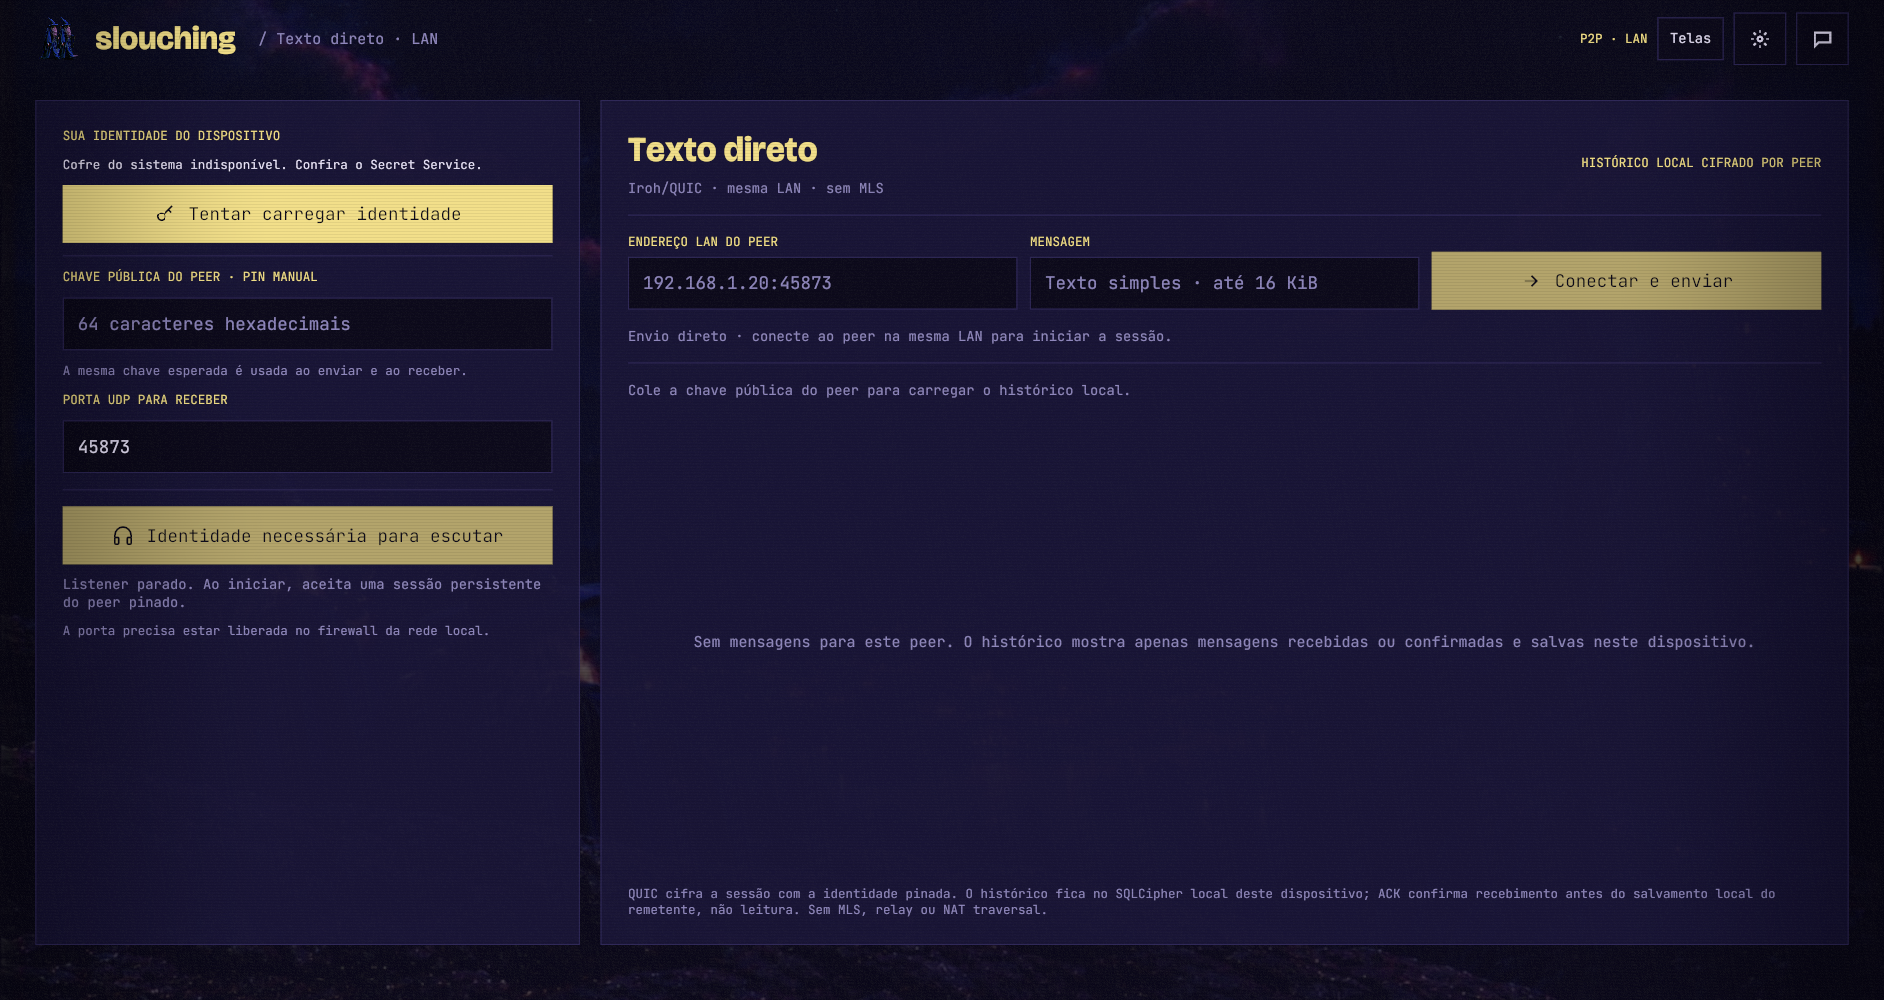
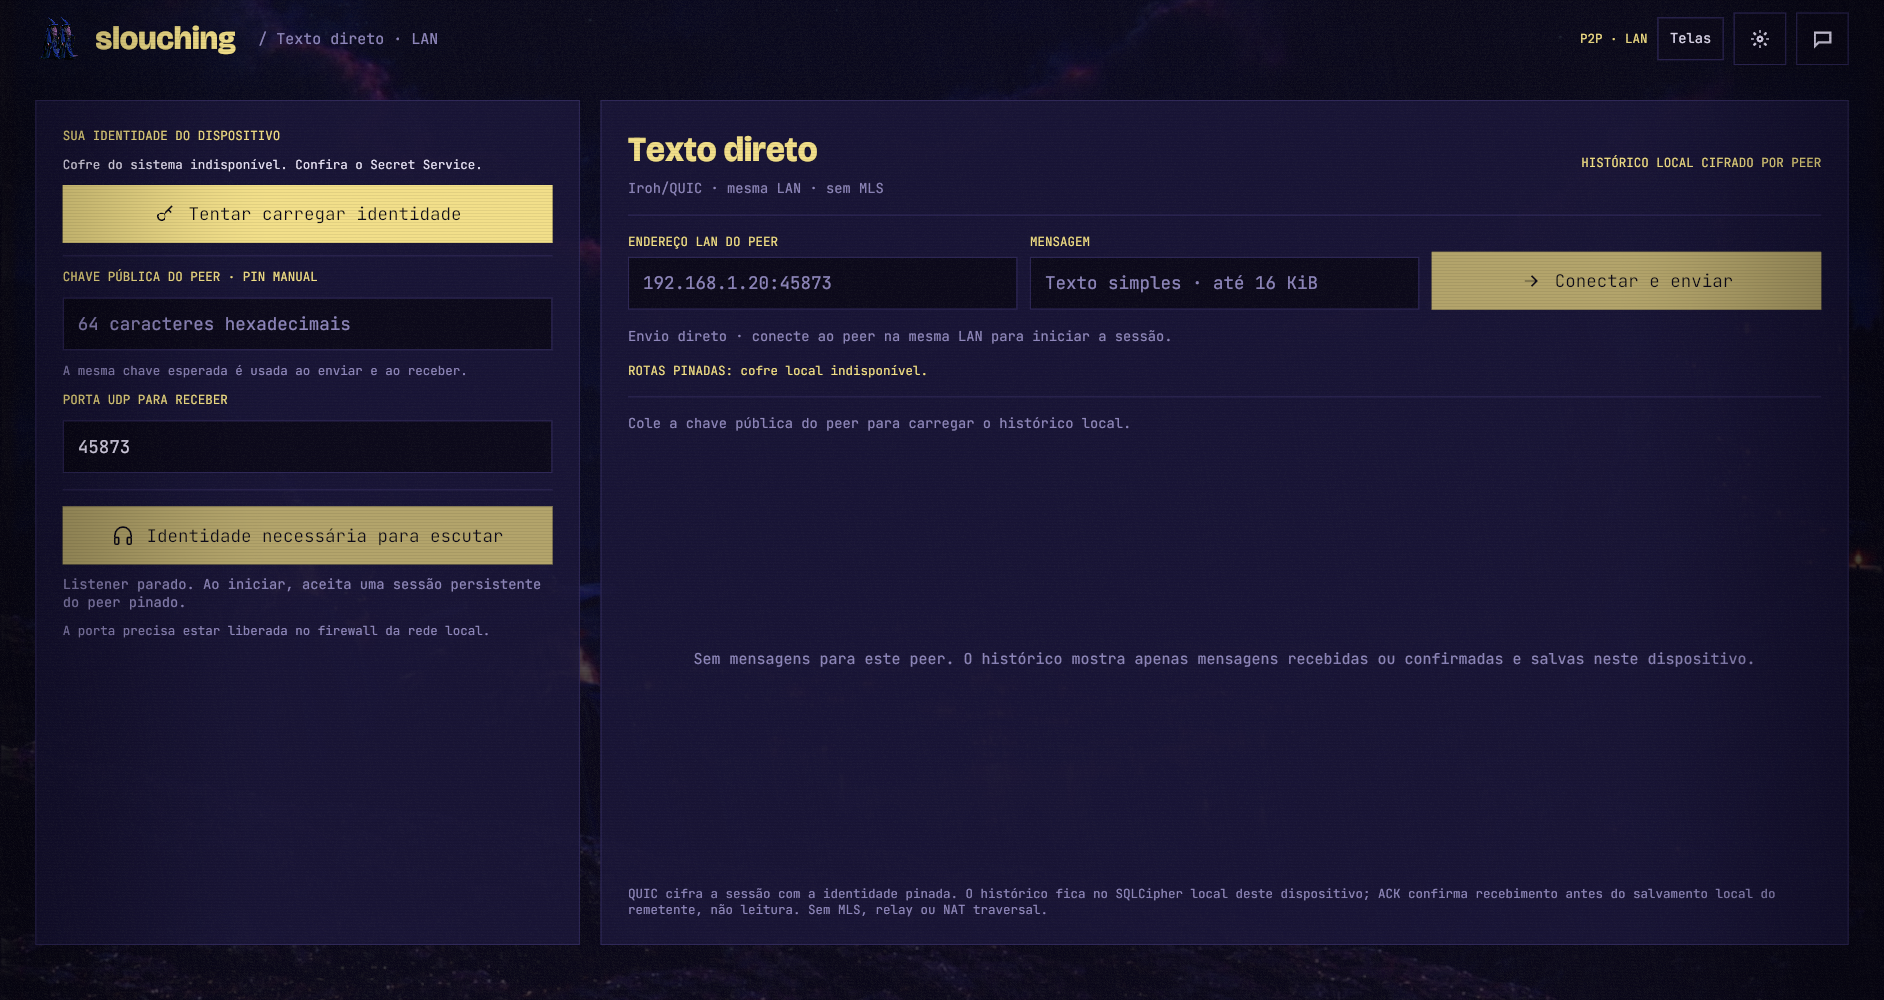
Persist pinned peer routes locally

Changed region(s): [[0.3694, 0.62, 0.9236, 0.682], [0.3386, 0.341, 0.5849, 0.434]]

diff --git a/src/storage.rs b/src/storage.rs
@@ -25,7 +25,7 @@ const KEY_NAME: &str = "local-profile-database-v1";
 const IDENTITY_KEY_NAME: &str = "device-signing-ed25519-v1";
 const PROFILE_DB: &str = "profile.sqlite3";
 const PROFILE_DB_KEY_LEN: usize = 32;
-const PROFILE_SCHEMA_VERSION: u32 = 12;
+const PROFILE_SCHEMA_VERSION: u32 = 13;
 const MAX_DIRECT_HISTORY_PER_PEER: i64 = 1000;
 const MAX_MLS_HISTORY_PER_GROUP: i64 = 1000;
 type StoredEventEnvelope = (
@@ -154,6 +154,12 @@ pub struct StoredDirectMessage {
 }
 
 #[derive(Debug, Clone, PartialEq, Eq)]
+pub struct StoredPeerRoute {
+    pub device_public_key: [u8; 32],
+    pub address: String,
+}
+
+#[derive(Debug, Clone, PartialEq, Eq)]
 pub struct StoredMlsMessage {
     pub sequence: i64,
     pub event_id: [u8; 16],
@@ -188,6 +194,26 @@ pub fn list_direct_messages(
     }
     let connection = open_local_database()?;
     list_direct_messages_in(&connection, peer_device, limit)
+}
+
+/// Stores a direct socket route only after the peer key has been pinned.
+pub fn save_peer_route(peer_device: [u8; 32], address: &str) -> Result<(), String> {
+    if peer_device.iter().all(|byte| *byte == 0) {
+        return Err("peer route requires a nonzero pinned device key".to_owned());
+    }
+    let address = address
+        .parse::<std::net::SocketAddr>()
+        .map_err(|_| "peer route must be an IP address and UDP port".to_owned())?;
+    if address.ip().is_unspecified() || address.port() == 0 {
+        return Err("peer route must use a reachable IP and nonzero port".to_owned());
+    }
+    let mut connection = open_local_database()?;
+    save_peer_route_in(&mut connection, peer_device, &address.to_string())
+}
+
+pub fn list_peer_routes() -> Result<Vec<StoredPeerRoute>, String> {
+    let connection = open_local_database()?;
+    list_peer_routes_in(&connection)
 }
 
 /// Removes only this peer's local direct-message history.
@@ -346,6 +372,45 @@ fn clear_direct_history_in(
         .commit()
         .map_err(|error| format!("could not commit direct history deletion: {error}"))?;
     Ok(deleted)
+}
+
+fn save_peer_route_in(
+    connection: &mut Connection,
+    peer_device: [u8; 32],
+    address: &str,
+) -> Result<(), String> {
+    connection
+        .execute(
+            "INSERT INTO local_peer_routes (device_public_key, socket_address)
+             VALUES (?1, ?2)
+             ON CONFLICT(device_public_key) DO UPDATE SET socket_address = excluded.socket_address",
+            params![peer_device.as_slice(), address],
+        )
+        .map_err(|error| format!("could not save pinned peer route: {error}"))?;
+    Ok(())
+}
+
+fn list_peer_routes_in(connection: &Connection) -> Result<Vec<StoredPeerRoute>, String> {
+    let mut statement = connection
+        .prepare(
+            "SELECT device_public_key, socket_address FROM local_peer_routes
+             ORDER BY socket_address, device_public_key",
+        )
+        .map_err(|error| format!("could not prepare pinned peer route query: {error}"))?;
+    let rows = statement
+        .query_map([], |row| {
+            Ok((row.get::<_, Vec<u8>>(0)?, row.get::<_, String>(1)?))
+        })
+        .map_err(|error| format!("could not query pinned peer routes: {error}"))?;
+    rows.map(|row| {
+        let (device_public_key, address) =
+            row.map_err(|error| format!("could not read pinned peer route: {error}"))?;
+        Ok(StoredPeerRoute {
+            device_public_key: fixed_bytes(device_public_key, "pinned peer route key")?,
+            address,
+        })
+    })
+    .collect()
 }
 
 fn list_direct_messages_in(
@@ -3699,6 +3764,19 @@ fn open_database(path: &Path, key: &[u8; PROFILE_DB_KEY_LEN]) -> Result<Connecti
             )
             .map_err(|error| format!("could not create encrypted MLS proposal journal: {error}"))?;
     }
+    if version < 13 {
+        transaction
+            .execute_batch(
+                "CREATE TABLE local_peer_routes (
+                     device_public_key BLOB PRIMARY KEY NOT NULL
+                         CHECK (length(device_public_key) = 32),
+                     socket_address TEXT NOT NULL
+                         CHECK (length(socket_address) BETWEEN 1 AND 128)
+                 );
+                 PRAGMA user_version = 13;",
+            )
+            .map_err(|error| format!("could not create encrypted peer route book: {error}"))?;
+    }
     transaction
         .commit()
         .map_err(|error| format!("could not finish local profile migration: {error}"))?;
@@ -3768,6 +3846,43 @@ mod tests {
             peer_identity.public().as_bytes(),
             device_identity.verifying_key().as_bytes()
         );
+    }
+
+    #[test]
+    fn pinned_peer_routes_persist_and_update_by_device_key() {
+        let unique = SystemTime::now()
+            .duration_since(UNIX_EPOCH)
+            .expect("system clock should be after the Unix epoch")
+            .as_nanos();
+        let directory = std::env::temp_dir().join(format!(
+            "slouching-peer-routes-{}-{unique}",
+            std::process::id()
+        ));
+        fs::create_dir_all(&directory).expect("temporary database directory should be created");
+        let path = directory.join("profile.sqlite3");
+        let key = [0x37; PROFILE_DB_KEY_LEN];
+        let peer = [0x61; 32];
+        let another_peer = [0x62; 32];
+        let mut connection =
+            open_database(&path, &key).expect("encrypted peer route database should initialize");
+
+        save_peer_route_in(&mut connection, peer, "192.168.1.20:45873")
+            .expect("first pinned peer route should persist");
+        save_peer_route_in(&mut connection, peer, "192.168.1.21:45873")
+            .expect("updated address should replace the prior route");
+        save_peer_route_in(&mut connection, another_peer, "[fd00::2]:45874")
+            .expect("IPv6 peer route should persist");
+
+        let routes = list_peer_routes_in(&connection).expect("pinned routes should reload");
+        assert_eq!(routes.len(), 2);
+        assert!(routes.iter().any(|route| {
+            route.device_public_key == peer && route.address == "192.168.1.21:45873"
+        }));
+        assert!(routes.iter().any(|route| {
+            route.device_public_key == another_peer && route.address == "[fd00::2]:45874"
+        }));
+        drop(connection);
+        fs::remove_dir_all(directory).expect("temporary peer route database should be removed");
     }
 
     #[test]

diff --git a/src/main.rs b/src/main.rs
@@ -176,6 +176,8 @@ struct Slouching {
     profile_status: ProfileStatus,
     identity_status: IdentityStatus,
     peer_public_key: String,
+    peer_routes: Vec<storage::StoredPeerRoute>,
+    peer_routes_error: Option<String>,
     peer_listen_port: String,
     peer_address: String,
     peer_draft: String,
@@ -315,6 +317,8 @@ impl Default for Slouching {
             profile_status: ProfileStatus::Loading,
             identity_status: IdentityStatus::Loading,
             peer_public_key: String::new(),
+            peer_routes: Vec::new(),
+            peer_routes_error: None,
             peer_listen_port: "45873".to_owned(),
             peer_address: String::new(),
             peer_draft: String::new(),
@@ -407,6 +411,8 @@ enum Message {
     StartPeerListener,
     StopPeerListener,
     PeerListenEvent(u64, PeerListenEvent),
+    PeerRoutesLoaded(Result<Vec<storage::StoredPeerRoute>, String>),
+    PeerRouteSaved(Result<Vec<storage::StoredPeerRoute>, String>),
     PeerInboundStored(u64, String, Result<storage::StoredDirectMessage, String>),
     PeerOutboundStored(u64, String, Result<storage::StoredDirectMessage, String>),
     SendPeerText,
@@ -772,6 +778,20 @@ fn update(state: &mut Slouching, message: Message) -> Task<Message> {
         }
         Message::PeerListenPortChanged(value) => state.peer_listen_port = value,
         Message::PeerAddressChanged(value) => state.peer_address = value,
+        Message::PeerRoutesLoaded(result) => match result {
+            Ok(routes) => {
+                state.peer_routes = routes;
+                state.peer_routes_error = None;
+            }
+            Err(error) => state.peer_routes_error = Some(error),
+        },
+        Message::PeerRouteSaved(result) => match result {
+            Ok(routes) => {
+                state.peer_routes = routes;
+                state.peer_routes_error = None;
+            }
+            Err(error) => state.peer_routes_error = Some(error),
+        },
         Message::PeerDraftChanged(value) => state.peer_draft = value,
         Message::StartPeerListener => {
             if state.peer_listener_handle.is_some() {
@@ -851,16 +871,27 @@ fn update(state: &mut Slouching, message: Message) -> Task<Message> {
                     state.peer_session_commands = Some(commands);
                 }
                 PeerListenEvent::Session(peer::PeerEvent::Connected { peer_id }) => {
+                    let remember_route =
+                        matches!(state.peer_send_status, PeerSendStatus::Connecting);
+                    let route_task = if remember_route {
+                        Task::perform(
+                            save_peer_route_task(*peer_id.as_bytes(), state.peer_address.clone()),
+                            Message::PeerRouteSaved,
+                        )
+                    } else {
+                        Task::none()
+                    };
                     apply_peer_event(state, peer::PeerEvent::Connected { peer_id });
                     let Some(group_id) = state.mls_history_group.clone() else {
-                        return Task::none();
+                        return route_task;
                     };
                     state.mls_status = "Sessão conectada; verificando Commits pendentes autorizados para este dispositivo…".to_owned();
                     let peer_device = *peer_id.as_bytes();
-                    return Task::perform(
+                    let commits_task = Task::perform(
                         load_mls_commits_for_peer_task(group_id.clone(), peer_device),
                         move |result| Message::MlsCommitsReadyToSend(group_id, result),
                     );
+                    return Task::batch([route_task, commits_task]);
                 }
                 PeerListenEvent::Session(event) => match event {
                     peer::PeerEvent::Received { sequence, text } => {
@@ -2710,6 +2741,7 @@ fn boot() -> (Slouching, Task<Message>) {
             Task::perform(load_profile_task(), Message::ProfileLoaded),
             Task::perform(load_identity_task(), Message::IdentityLoaded),
             load_mls_groups(),
+            Task::perform(load_peer_routes_task(), Message::PeerRoutesLoaded),
             transport,
             capture,
         ]),
@@ -2756,6 +2788,24 @@ async fn store_direct_message_task(
     })
     .await
     .map_err(|error| format!("direct history task failed: {error}"))?
+}
+
+async fn load_peer_routes_task() -> Result<Vec<storage::StoredPeerRoute>, String> {
+    tokio::task::spawn_blocking(storage::list_peer_routes)
+        .await
+        .map_err(|error| format!("peer route load task failed: {error}"))?
+}
+
+async fn save_peer_route_task(
+    peer_device: [u8; 32],
+    address: String,
+) -> Result<Vec<storage::StoredPeerRoute>, String> {
+    tokio::task::spawn_blocking(move || {
+        storage::save_peer_route(peer_device, &address)?;
+        storage::list_peer_routes()
+    })
+    .await
+    .map_err(|error| format!("peer route persistence task failed: {error}"))?
 }
 
 async fn save_profile_task(profile: storage::LocalProfile) -> Result<(), String> {

diff --git a/src/ui.rs b/src/ui.rs
@@ -1928,6 +1928,38 @@ fn chat(state: &Slouching, l: Layout) -> Element<'_, Message> {
             )
             .into(),
     };
+    let routes: Element<'_, Message> = if state.peer_routes_error.is_some() {
+        l.label("ROTAS PINADAS: cofre local indisponível.", 10.0, GOLD)
+            .into()
+    } else if state.peer_routes.is_empty() {
+        l.label(
+            "ROTAS PINADAS: conecte a um peer para guardar a chave e o endereço usados.",
+            10.0,
+            MUTED,
+        )
+        .into()
+    } else {
+        let entries = state.peer_routes.iter().fold(
+            column![l.label(
+                format!("ROTAS PINADAS · {}", state.peer_routes.len()),
+                10.0,
+                GOLD
+            )]
+            .spacing(l.px(3.0)),
+            |entries, route| {
+                entries.push(l.label(
+                    format!(
+                        "{}… · {}",
+                        crate::hex_encode_bytes(&route.device_public_key[..4]),
+                        route.address
+                    ),
+                    10.0,
+                    MUTED,
+                ))
+            },
+        );
+        scrollable(entries).height(l.px(72.0)).into()
+    };
     let transcript: Element<'_, Message> = if state.peer_transcript.is_empty() {
         container(
             l.label(
@@ -2035,6 +2067,7 @@ fn chat(state: &Slouching, l: Layout) -> Element<'_, Message> {
         rule(LINE, 1.0),
         send_address,
         send_status,
+        routes,
         rule(LINE, 1.0),
         history_action,
         transcript,

diff --git a/README.md b/README.md
@@ -63,8 +63,11 @@ path.
    can send multiple messages over the same session. Sent text appears only
    after an ACK; received text appears live after the pinned identity check.
 
-The listener stays available through the session. Either side can use
-**Desconectar sessão** to close it; start a new session to reconnect. The
+A successful outbound connection saves the pinned device key and socket address
+in the encrypted local route book. The chat screen lists these routes for future
+group-member delivery; LAN addresses can become stale. The listener stays
+available through the session. Either side can use **Desconectar sessão** to
+close it; start a new session to reconnect. The
 receiver saves an inbound message to its encrypted local history before ACK;
 the sender saves an outbound message after receiving ACK. ACK confirms
 acceptance into the receiver's local transcript, not that the user read it.
@@ -173,7 +176,7 @@ be installed and available in the user session.
 
 ![Actual refreshed 1280 × 800 native Iced familiar screen from this transport milestone; Secret Service is unavailable in this capture](docs/design/runtime/native-vhs/01-familiar.png)
 
-![Actual 1884 × 1000 Iced chat capture; Secret Service was unavailable in the capture session, so identity-gated controls are disabled. When listening, the UI offers a button to copy the chosen LAN socket address.](docs/design/runtime/native-vhs/06-chat.png)
+![Actual 1884 × 1000 native Iced chat showing the pinned-route area; Secret Service is unavailable in this capture, so identity-gated controls are disabled.](docs/design/runtime/native-vhs/06-chat.png)
 
 ![Actual native Iced home with open scenery and icon-based feature strip, without the frog mage or gnome cutouts](docs/design/runtime/native-vhs/09-home.png)
 

diff --git a/docs/fichas/frontend/current-slice.md b/docs/fichas/frontend/current-slice.md
@@ -2,7 +2,9 @@
 
 **Status:** eleven design-board screens plus a native MLS group screen. Direct
 LAN chat uses pinned Ed25519 device identities and persistent Iroh/QUIC
-sessions. MLS group setup can send a device-bound KeyPackage over the active
+sessions. Successful outbound connections save the pinned device key and
+last-seen socket address in the encrypted local route book, a foundation for
+planned multi-member Commit fan-out. MLS group setup can send a device-bound KeyPackage over the active
 pinned session; the committer reviews and admits it after matching the package
 identity to the transport peer. After admission, the committer sends Welcome
 and ratchet tree over the pinned session. The invitee validates the target
